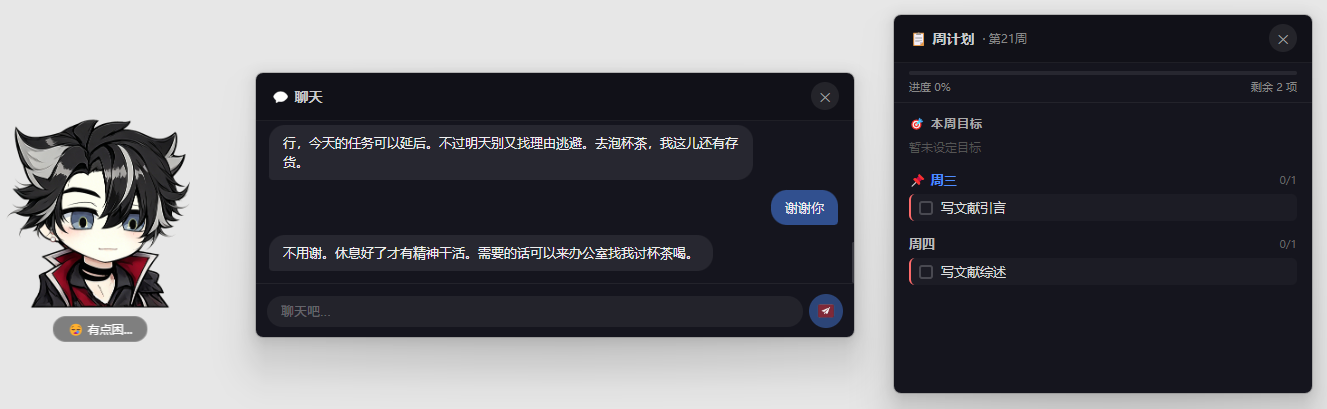
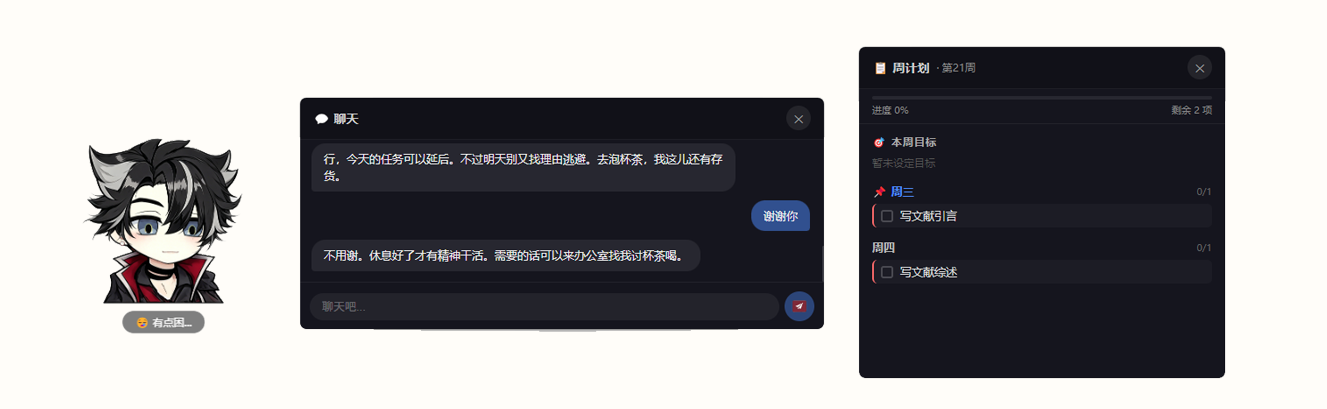
20260604 01

diff --git a/index.html b/index.html
@@ -18,7 +18,7 @@
       id="intro"
       class="intro"
       role="button"
-      aria-label="点击进入主页"
+      aria-label="进入主页"
       tabindex="0"
     >
       <img
@@ -35,7 +35,7 @@
         width="180"
         height="84"
       />
-      <p class="intro-hint">点击进入作品集</p>
+      <p class="intro-hint">进入主页</p>
     </section>
 
     <!-- Background -->
@@ -66,7 +66,7 @@
 
       <nav class="bottom-section" aria-label="导航">
         <button class="enter-btn" type="button" onclick="goHome()">
-          进入个人作品集
+          进入个人主页
         </button>
         <a
           href="https://charenlll.github.io/mobility-agents/index.html"
